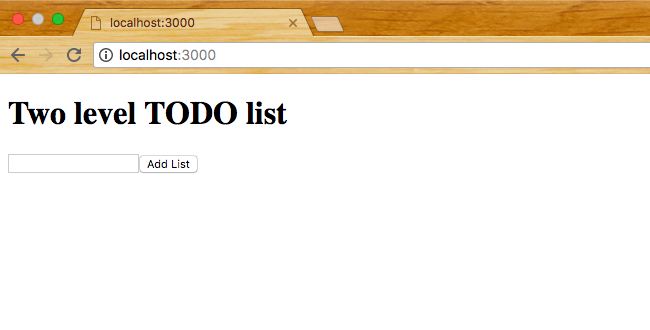
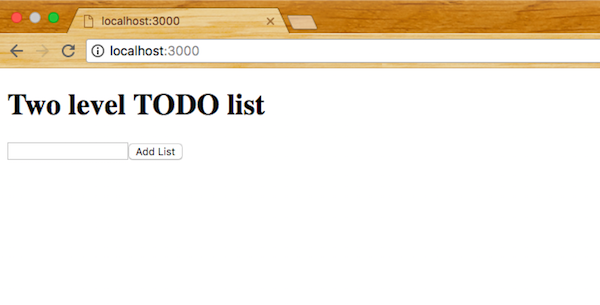
Prev commits has no effect. Resize images.

diff --git a/README.md b/README.md
@@ -110,7 +110,7 @@ npm run dev
 ``` 
 This command should run local backend server and open browser page pointed to *http://localhost:3000*
 
-![Screenshot 01](https://github.com/max-vasin/resolve-electron-app/blob/master/screenshots/s_01.png =600x)
+![Screenshot 01](https://github.com/max-vasin/resolve-electron-app/blob/master/screenshots/s_01.png)
 
 Build and run [Electron](https://electronjs.org/) application
 
@@ -118,12 +118,12 @@ Build and run [Electron](https://electronjs.org/) application
 electron-forge start
 ```
 
-![Screenshot 02](https://github.com/max-vasin/resolve-electron-app/blob/master/screenshots/s_02.png =600x)
+![Screenshot 02](https://github.com/max-vasin/resolve-electron-app/blob/master/screenshots/s_02.png)
 
 Try to add ToDo lists and items with both browser and desktop application to test reactivity provided by [reSolve](https://github.com/reimagined/resolve) app.
 
-![Screenshot 03](https://github.com/max-vasin/resolve-electron-app/blob/master/screenshots/s_03.png =600x)
+![Screenshot 03](https://github.com/max-vasin/resolve-electron-app/blob/master/screenshots/s_03.png)
 
-![Screenshot 04](https://github.com/max-vasin/resolve-electron-app/blob/master/screenshots/s_04.png =600x)
+![Screenshot 04](https://github.com/max-vasin/resolve-electron-app/blob/master/screenshots/s_04.png)
 
 
